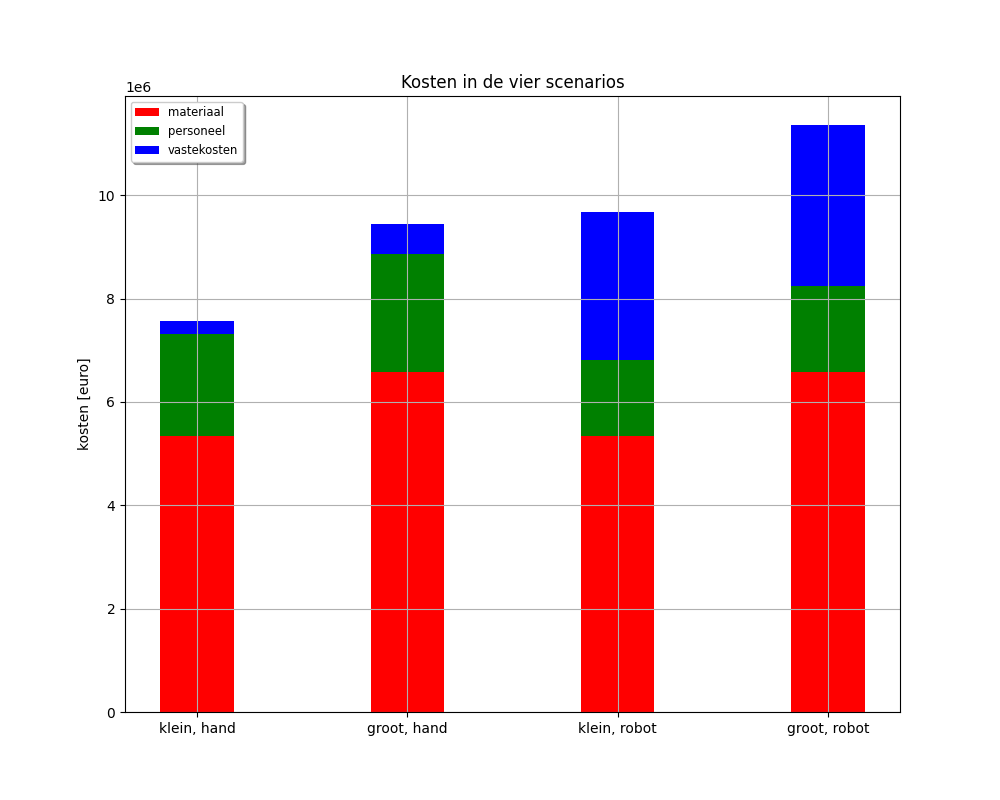
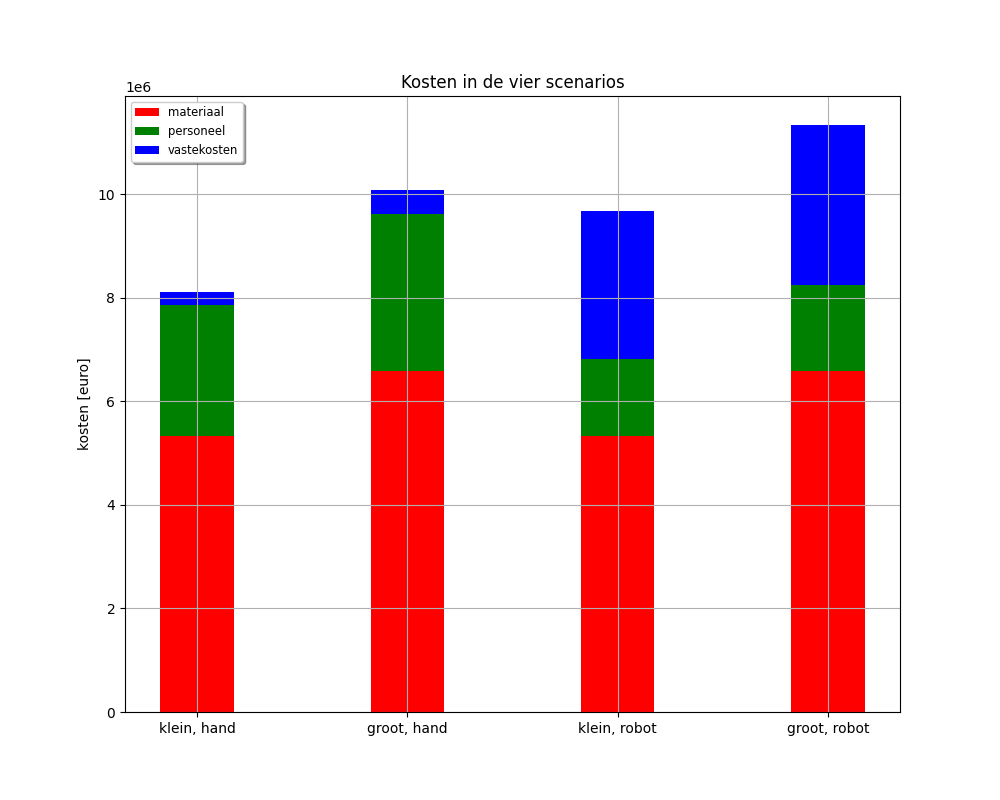
biem

Changed region(s): [[0.372, 0.2188, 0.465, 0.3438], [0.155, 0.3438, 0.248, 0.4375], [0.806, 0.3438, 0.868, 0.375]]

diff --git a/construeren/plaatproductie/losse testjes.py b/construeren/plaatproductie/losse testjes.py
@@ -3,13 +3,13 @@ import numpy as np
 import math as m
 import scipy
 
-ss = np.linspace(0.3,1.0,701)
+ss = np.arange(0.7,0.71,1)
 groepsnummer = 2
 station  = 5
 uren = 8
 n_perstation= 3 #aantal pesonen  
 T = 8
-Ks = 1.2
+Ks = 1.
 rho = 1025
 g = 9.81
 p = T *g *rho
@@ -44,8 +44,8 @@ class totaal():
         Fs = p*sg*bp/2
 
 
-        hvrang = np.sqrt(3/2)*np.sqrt(Mb * 1.2/(sigma_y*twg))
-        A_bulb = 0.40824829 * np.sqrt(Mb*twg*1.2/(sigma_y))
+        hvrang = 1.25
+        A_bulb = (((30*0.5)/15 ) + ((6*0.5)/12)) *sg * (np.sqrt((p*ss*tws)/(12*sigma_y )))
         nzaathout = 4
         aantal_jaar = capaciteit/A 
         nplaat = Bp/bp
@@ -62,30 +62,31 @@ class totaal():
 
         m_plaat = Lp * Bp * tp*rho_plaat 
         m_z = nzaathout*Lp*75
-        m_s = nspant*Lp*A_bulb*rho_plaat
-        m_g = nvrang*Bp*75
+        m_s = np.int32(nspant)*Lp*A_bulb*rho_plaat
+        m_g = np.int32(nvrang)*Bp*75
         m_totaal = m_plaat+m_z+m_s+m_g
         materiaal = aantal_jaar*m_totaal
         
-        x = nplaat-1 + 2
-        y = Llas_plaat/14400
-        z1 = (Llas_vrang_verti/1.2 +(Llas_vrang_hori+Llas_zaathout+Llas_spant)/2)
-        z2 = ((7.8*5**2)/2000)
-        z = 1/0.35*(z1*z2)
-        x1 = (nspant)
-        y1 = 4*(nvrang+nzaathout)
+        ndraaien = 2
+        Tphechten = nplaat-1
+        Tplassen = Llas_plaat/14400
+        Tzgslassen = (Llas_vrang_verti/1.2 +(Llas_vrang_hori+Llas_zaathout+Llas_spant)/2)*((7.8*5**2)/2000)/0.35
+        Tshechten = 0.5*(nspant)
+        Tzghechten = 4*(nvrang+nzaathout)
+        Tdraaien = ndraaien*2
 
 
-        urenpplaat = x + y + z +x1+ y1
+        urenpplaat = Tphechten + Tplassen+ Tzgslassen+2*Tshechten+2*Tzghechten+2*Tdraaien
+        productieuren = Tphechten + Tplassen+ Tzgslassen+Tshechten+Tzghechten+Tdraaien
         personeel = aantal_jaar*50* urenpplaat
 
-        nplek = np.int32((urenpplaat*aantal_jaar)/2000)
+        nplek = np.int32((productieuren*aantal_jaar)/2000)
         loods = A*nplek
 
         vastekosten = 90*loods
 
         totaal = materiaal + personeel + vastekosten 
-        return min(urenpplaat)
+        return totaal, materiaal, personeel, vastekosten,productieuren
 
     def groot_hand(sg):
         hspant = (6*0.5/2+300.5/2)*((p*ss*sg*2*Ks)/(12*sigma_y*tws))**0.5 /1000
@@ -94,8 +95,8 @@ class totaal():
         Fs = p*sg*bp/2
 
 
-        hvrang = np.sqrt(3/2)*np.sqrt(Mb * 1.2/(sigma_y*twg))
-        A_bulb = 0.40824829 * np.sqrt(Mb*twg*1.2/(sigma_y))
+        hvrang = 1.25
+        A_bulb = (((30*0.5)/15 ) + ((6*0.5)/12)) *sg * (np.sqrt((p*ss*tws)/(12*sigma_y )))
         nzaathout = 8
         aantal_jaar = capaciteit/(2*A) 
         nplaat = 2*Bp/bp
@@ -112,22 +113,31 @@ class totaal():
 
         m_plaat = 2*Lp * Bp * tp*rho_plaat 
         m_z = nzaathout*2*Lp*75
-        m_s = nspant*2*Lp*A_bulb*rho_plaat
-        m_g = nvrang*Bp*75
+        m_s = np.int32(nspant)*2*Lp*A_bulb*rho_plaat
+        m_g = np.int32(nvrang)*Bp*75
         m_totaal = m_plaat+m_z+m_s+m_g
         materiaal = aantal_jaar*m_totaal
 
-        urenpplaat = nplaat-1 + 2 + Llas_plaat/14400 + 1/0.35*((Llas_vrang_verti/1.2 +(Llas_vrang_hori+Llas_zaathout+Llas_spant)/2)*(7.8*5**2/2000) )+(nspant)+8*(nvrang+nzaathout)
+        ndraaien = 2
+        Tphechten = nplaat-1
+        Tplassen = Llas_plaat/14400
+        Tzgslassen = 1/0.35*(Llas_vrang_verti/1.2 +(Llas_vrang_hori+Llas_zaathout+Llas_spant)/2)*((7.8*5**2)/2000)
+        Tshechten = 0.5*(nspant)
+        Tzghechten = 4*(nvrang+nzaathout)
+        Tdraaien = ndraaien*2
 
+
+        urenpplaat = Tphechten + Tplassen+ Tzgslassen+2*Tshechten+4*Tzghechten+2*Tdraaien
+        productieuren = Tphechten + Tplassen+ Tzgslassen+Tshechten+Tzghechten+Tdraaien
         personeel = aantal_jaar*50*urenpplaat
 
-        nplek = np.int32((urenpplaat*aantal_jaar)/2000)
+        nplek = np.int32((productieuren*aantal_jaar)/2000)
         loods = 2*A*nplek
 
         vastekosten = 90*loods
 
         totaal = materiaal + personeel + vastekosten 
-        return min(urenpplaat)
+        return totaal, materiaal, personeel, vastekosten,productieuren
 
     def klein_robot(sg):
         hspant = (6*0.5/2+300.5/2)*((p*ss*sg*2*Ks)/(12*sigma_y*tws))**0.5
@@ -136,8 +146,8 @@ class totaal():
         Fs = p*sg*bp/2
 
 
-        hvrang = np.sqrt(3/2)*np.sqrt(Mb * 1.2/(sigma_y*twg))
-        A_bulb = 0.40824829 * np.sqrt(Mb*twg*1.2/(sigma_y))
+        hvrang = 1.25
+        A_bulb = (((30*0.5)/15 ) + ((6*0.5)/12)) *sg * (np.sqrt((p*ss*tws)/(12*sigma_y )))
         nzaathout = 4
         aantal_jaar = capaciteit/A 
         nplaat = Bp/bp
@@ -159,13 +169,20 @@ class totaal():
         m_totaal = m_plaat+m_z+m_s+m_g
         materiaal = aantal_jaar*m_totaal
 
-        urenpplaat = 5*((Llas_vrang_verti/1.2 +(Llas_vrang_hori+Llas_zaathout+Llas_spant)/2)*(7.8*5**2/2000) )/4 +2*(nvrang+nzaathout)
+        loc4en5 = (((Llas_vrang_verti/1.2 +(Llas_vrang_hori+Llas_zaathout)/2)*(7.8*5**2/2000) )/0.6 +2*(nvrang+nzaathout))/2
+        loc3 = (Llas_spant/2)*((7.8*5**2)/2000)/0.6
+        urenpplaat = np.zeros(len(ss))
+        for i in range(len(urenpplaat)):
+            if loc3[i] > loc4en5[i]:
+                urenpplaat[i] = loc3[i]
+            if loc4en5[i] > loc3[i]:
+                urenpplaat[i] = loc4en5[i]
         personeel = aantal_jaar*90*urenpplaat
         loods = 1500
         vastekosten = 70*loods +275000*10*ss/ss
         totaal = materiaal + personeel + vastekosten 
-        return min(urenpplaat)
-    
+        return totaal, materiaal, personeel, vastekosten,urenpplaat
+
     def groot_robot(sg):
         hspant = (6*0.5/2+300.5/2)*((p*ss*sg*2*Ks)/(12*sigma_y*tws))**0.5
 
@@ -173,8 +190,8 @@ class totaal():
         Fs = p*sg*bp/2
 
 
-        hvrang = np.sqrt(3/2)*np.sqrt(Mb * 1.2/(sigma_y*twg))
-        A_bulb = 0.40824829 * np.sqrt(Mb*twg*1.2/(sigma_y))
+        hvrang = 1.25
+        A_bulb = (((30*0.5)/15 ) + ((6*0.5)/12)) *sg * (np.sqrt((p*ss*tws)/(12*sigma_y )))
         nzaathout = 8
         aantal_jaar = capaciteit/(2*A) 
         nplaat = 2*Bp/bp
@@ -196,37 +213,40 @@ class totaal():
         m_totaal = m_plaat+m_z+m_s+m_g
         materiaal = aantal_jaar*m_totaal
         
-        urenpplaat = 5*((Llas_vrang_verti/1.2 +(Llas_vrang_hori+Llas_zaathout+Llas_spant)/2)*(7.8*5**2/2000) )/4 +4*(nvrang+nzaathout)
+        loc4en5 = (((Llas_vrang_verti/1.2 +(Llas_vrang_hori+Llas_zaathout)/2)*(7.8*5**2/2000))/0.6 +4*(nvrang+nzaathout))/2
+        loc3 = (Llas_spant/2)*((7.8*5**2)/2000)/0.6
+        urenpplaat = np.zeros(len(ss))
+        for i in range(len(urenpplaat)):
+            if loc3[i] > loc4en5[i]:
+                urenpplaat[i] = loc3[i]
+            if loc4en5[i] > loc3[i]:
+                urenpplaat[i] = loc4en5[i]
+
         personeel = aantal_jaar*90*urenpplaat
-        loods = 1500
+        loods = 1200
         vastekosten = 70*loods +300000*10*ss/ss
 
         totaal = materiaal + personeel + vastekosten 
-        return min(urenpplaat)
+        return totaal, materiaal, personeel, vastekosten,urenpplaat
 
-'''
-k_h_4_tot, k_h_4_mat,k_h_4_per,k_h_4_vast = totaal.klein_hand(4)
-g_h_4_tot, g_h_4_mat,g_h_4_per,g_h_4_vast = totaal.groot_hand(4)
 
-k_h_3_tot, k_h_3_mat,k_h_3_per,k_h_3_vast = totaal.klein_hand(3)
-g_h_3_tot, g_h_3_mat,g_h_3_per,g_h_3_vast = totaal.groot_hand(3)
+k_h_4_tot, k_h_4_mat,k_h_4_per,k_h_4_vast,k_h_man = totaal.klein_hand(4)
+g_h_4_tot, g_h_4_mat,g_h_4_per,g_h_4_vast,g_h_man = totaal.groot_hand(4)
 
-k_h_2_tot, k_h_2_mat,k_h_2_per,k_h_2_vast = totaal.klein_hand(2)
-g_h_2_tot, g_h_2_mat,g_h_2_per,g_h_2_vast = totaal.groot_hand(2)
 
-k_r_4_tot, k_r_4_mat,k_r_4_per,k_r_4_vast = totaal.klein_robot(4)
-g_r_4_tot, g_r_4_mat,g_r_4_per,g_r_4_vast = totaal.groot_robot(4)
 
-k_r_3_tot, k_r_3_mat,k_r_3_per,k_r_3_vast = totaal.klein_robot(3)
-g_r_3_tot, g_r_3_mat,g_r_3_per,g_r_3_vast = totaal.groot_robot(3)
+k_r_4_tot, k_r_4_mat,k_r_4_per,k_r_4_vast,k_r_man = totaal.klein_robot(4)
+g_r_4_tot, g_r_4_mat,g_r_4_per,g_r_4_vast,g_r_man = totaal.groot_robot(4)
 
-k_r_2_tot, k_r_2_mat,k_r_2_per,k_r_2_vast = totaal.klein_robot(2)
-g_r_2_tot, g_r_2_mat,g_r_2_per,g_r_2_vast = totaal.groot_robot(2)
-'''
 
-label = ["klein, hand","groot, hand","klein, robot","groot, robot"]
-min_uren = [totaal.klein_hand(4),totaal.groot_hand(4),totaal.klein_robot(4),totaal.groot_robot(4)]
+'''print([["scenario","manuren"],
+       ["hand klein",k_h_man],
+       ["hand groot",g_h_man],
+       ["robot klein",k_r_man],
+       ["robot groot",g_r_man]])'''
 
-tabel = np.array([label,min_uren])
-
-print(tabel)
+print([["scenario","totaal","materiaal","personeel","vast"],
+       ["klein hand",k_h_4_tot, k_h_4_mat,k_h_4_per,k_h_4_vast],
+       ["groot hand",g_h_4_tot, g_h_4_mat,g_h_4_per,g_h_4_vast],
+       ["klein robot",k_r_4_tot, k_r_4_mat,k_r_4_per,k_r_4_vast],
+       ["groot robot",k_r_4_tot, k_r_4_mat,k_r_4_per,k_r_4_vast]])

diff --git a/construeren/plaatproductie/herkansing.py b/construeren/plaatproductie/herkansing.py
@@ -68,19 +68,20 @@ class totaal():
         materiaal = aantal_jaar*m_totaal
         
 
-        x = nplaat-1 + 2
-        y = Llas_plaat/14400
-        z1 = (Llas_vrang_verti/1.2 +(Llas_vrang_hori+Llas_zaathout+Llas_spant)/2)
-        z2 = ((7.8*5**2)/2000)
-        z = 1/0.35*(z1*z2)
-        x1 = (nspant)
-        y1 = 4*(nvrang+nzaathout)
+        ndraaien = 2
+        Tphechten = nplaat-1
+        Tplassen = Llas_plaat/14400
+        Tzgslassen = (Llas_vrang_verti/1.2 +(Llas_vrang_hori+Llas_zaathout+Llas_spant)/2)*((7.8*5**2)/2000)/0.35
+        Tshechten = 0.5*(nspant)
+        Tzghechten = 4*(nvrang+nzaathout)
+        Tdraaien = ndraaien*2
 
 
-        urenpplaat = x + y + z +x1+ y1
+        urenpplaat = Tphechten + Tplassen+ Tzgslassen+2*Tshechten+2*Tzghechten+2*Tdraaien
+        productieuren = Tphechten + Tplassen+ Tzgslassen+Tshechten+Tzghechten+Tdraaien
         personeel = aantal_jaar*50* urenpplaat
 
-        nplek = np.int32((urenpplaat*aantal_jaar)/2000)
+        nplek = np.int32((productieuren*aantal_jaar)/2000)
         loods = A*nplek
 
         vastekosten = 90*loods
@@ -118,11 +119,20 @@ class totaal():
         m_totaal = m_plaat+m_z+m_s+m_g
         materiaal = aantal_jaar*m_totaal
 
-        urenpplaat = nplaat-1 + 2 + Llas_plaat/14400 + 1/0.35*((Llas_vrang_verti/1.2 +(Llas_vrang_hori+Llas_zaathout+Llas_spant)/2)*(7.8*5**2/2000) )+(nspant)+8*(nvrang+nzaathout)
+        ndraaien = 2
+        Tphechten = nplaat-1
+        Tplassen = Llas_plaat/14400
+        Tzgslassen = 1/0.35*(Llas_vrang_verti/1.2 +(Llas_vrang_hori+Llas_zaathout+Llas_spant)/2)*((7.8*5**2)/2000)
+        Tshechten = 0.5*(nspant)
+        Tzghechten = 4*(nvrang+nzaathout)
+        Tdraaien = ndraaien*2
 
+
+        urenpplaat = Tphechten + Tplassen+ Tzgslassen+2*Tshechten+4*Tzghechten+2*Tdraaien
+        productieuren = Tphechten + Tplassen+ Tzgslassen+Tshechten+Tzghechten+Tdraaien
         personeel = aantal_jaar*50*urenpplaat
 
-        nplek = np.int32((urenpplaat*aantal_jaar)/2000)
+        nplek = np.int32((productieuren*aantal_jaar)/2000)
         loods = 2*A*nplek
 
         vastekosten = 90*loods
@@ -214,7 +224,7 @@ class totaal():
                 urenpplaat[i] = loc4en5[i]
 
         personeel = aantal_jaar*90*urenpplaat
-        loods = 1500
+        loods = 1200
         vastekosten = 70*loods +300000*10*ss/ss
 
         totaal = materiaal + personeel + vastekosten 
